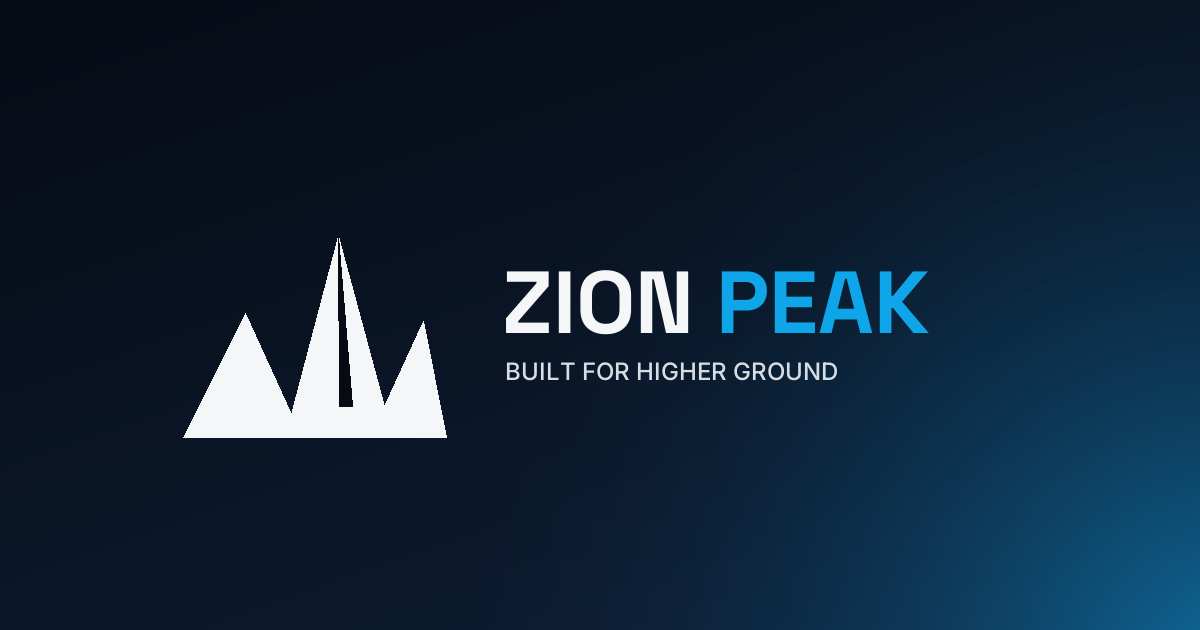
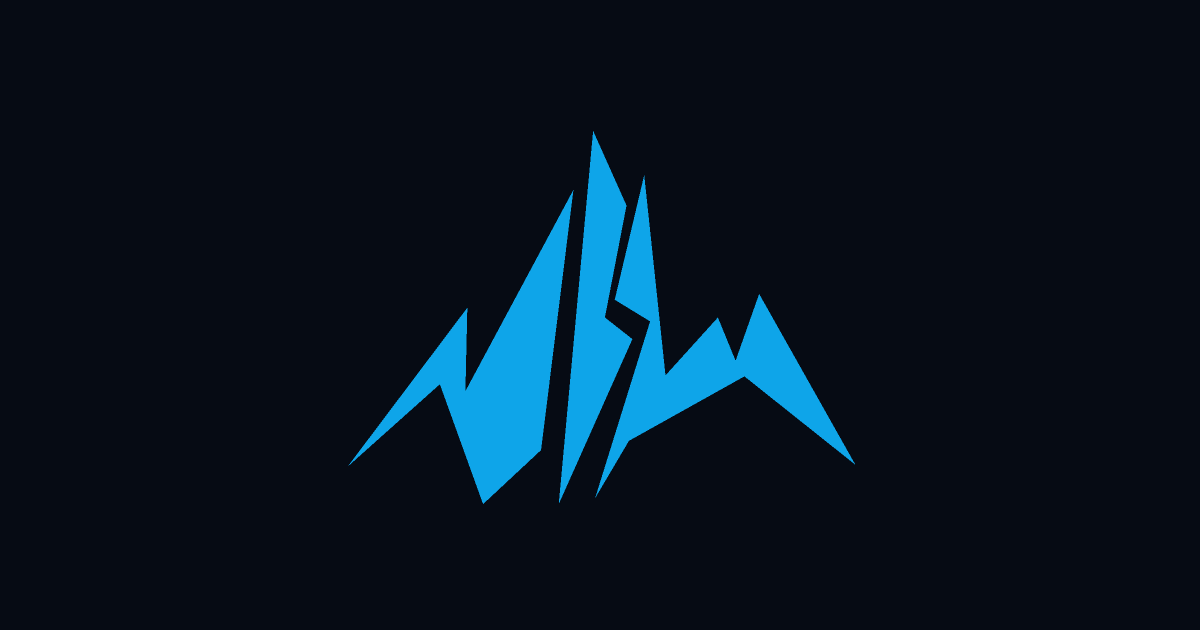
Rebrand: new Zion Peak mountain-bolt mark across the site
Replaces the old mark in the header, footer, favicons (svg/png/ico),
apple-touch icon, og-image, brand SVG assets, and pricing card.

diff --git a/index.html b/index.html
@@ -7,6 +7,7 @@
 <meta name="description" content="Zion Peak designs and builds websites for local businesses that want to look bigger than they are. Web design & development, built for higher ground.">
 <meta name="theme-color" content="#060B14">
 <link rel="icon" href="favicon.ico" sizes="any">
+<link rel="icon" type="image/svg+xml" href="assets/zion-peak-logo/icon-blue.svg">
 <link rel="icon" type="image/png" sizes="32x32" href="assets/images/favicon-32x32.png">
 <link rel="icon" type="image/png" sizes="16x16" href="assets/images/favicon-16x16.png">
 <link rel="apple-touch-icon" sizes="180x180" href="assets/images/apple-touch-icon.png">
@@ -51,9 +52,13 @@
 <header class="site-header" id="siteHeader">
   <div class="container header-inner">
     <a href="#top" class="logo" aria-label="Zion Peak home">
-      <svg class="logo-mark" id="brandMark" viewBox="0 5 200 160" aria-hidden="true">
-        <path fill-rule="evenodd" clip-rule="evenodd" fill="#FFFFFF"
-          d="M15 150 L55 70 L85 135 L115 20 L145 130 L170 75 L185 150 Z M115 20 L124 130 L116 130 Z"/>
+      <svg class="logo-mark" id="brandMark" viewBox="0 0 570 395" aria-hidden="true">
+        <g fill="#FFFFFF">
+          <path d="M28 352 L150 190 L148 275 L258 70 L225 335 L166 390 L122 268 Z"/>
+          <path d="M278 10 L312 86 L290 200 L318 222 L243 390 Z"/>
+          <path d="M330 55 L300 182 L336 204 L280 384 L352 262 Z"/>
+          <path d="M310 305 L405 200 L423 244 L447 176 L545 350 L432 260 L303 332 Z"/>
+        </g>
       </svg>
       <span class="logo-word">ZION <span class="logo-word-accent">PEAK</span></span>
     </a>

diff --git a/zion_peak_pricing_card.html b/zion_peak_pricing_card.html
@@ -119,8 +119,13 @@ body {
 <body>
 
 <div class="zp-card">
-  <svg class="zp-mountain" viewBox="0 0 200 160" xmlns="http://www.w3.org/2000/svg">
-    <path fill="#7DD3FC" fill-rule="evenodd" clip-rule="evenodd" d="M15 150 L55 70 L85 135 L115 20 L145 130 L170 75 L185 150 Z M115 20 L124 130 L116 130 Z"/>
+  <svg class="zp-mountain" viewBox="0 0 570 395" xmlns="http://www.w3.org/2000/svg">
+    <g fill="#7DD3FC">
+      <path d="M28 352 L150 190 L148 275 L258 70 L225 335 L166 390 L122 268 Z"/>
+      <path d="M278 10 L312 86 L290 200 L318 222 L243 390 Z"/>
+      <path d="M330 55 L300 182 L336 204 L280 384 L352 262 Z"/>
+      <path d="M310 305 L405 200 L423 244 L447 176 L545 350 L432 260 L303 332 Z"/>
+    </g>
   </svg>
   <div class="zp-badge">MOST POPULAR</div>
   <div class="zp-eyebrow">Zion Peak · Web Package</div>
